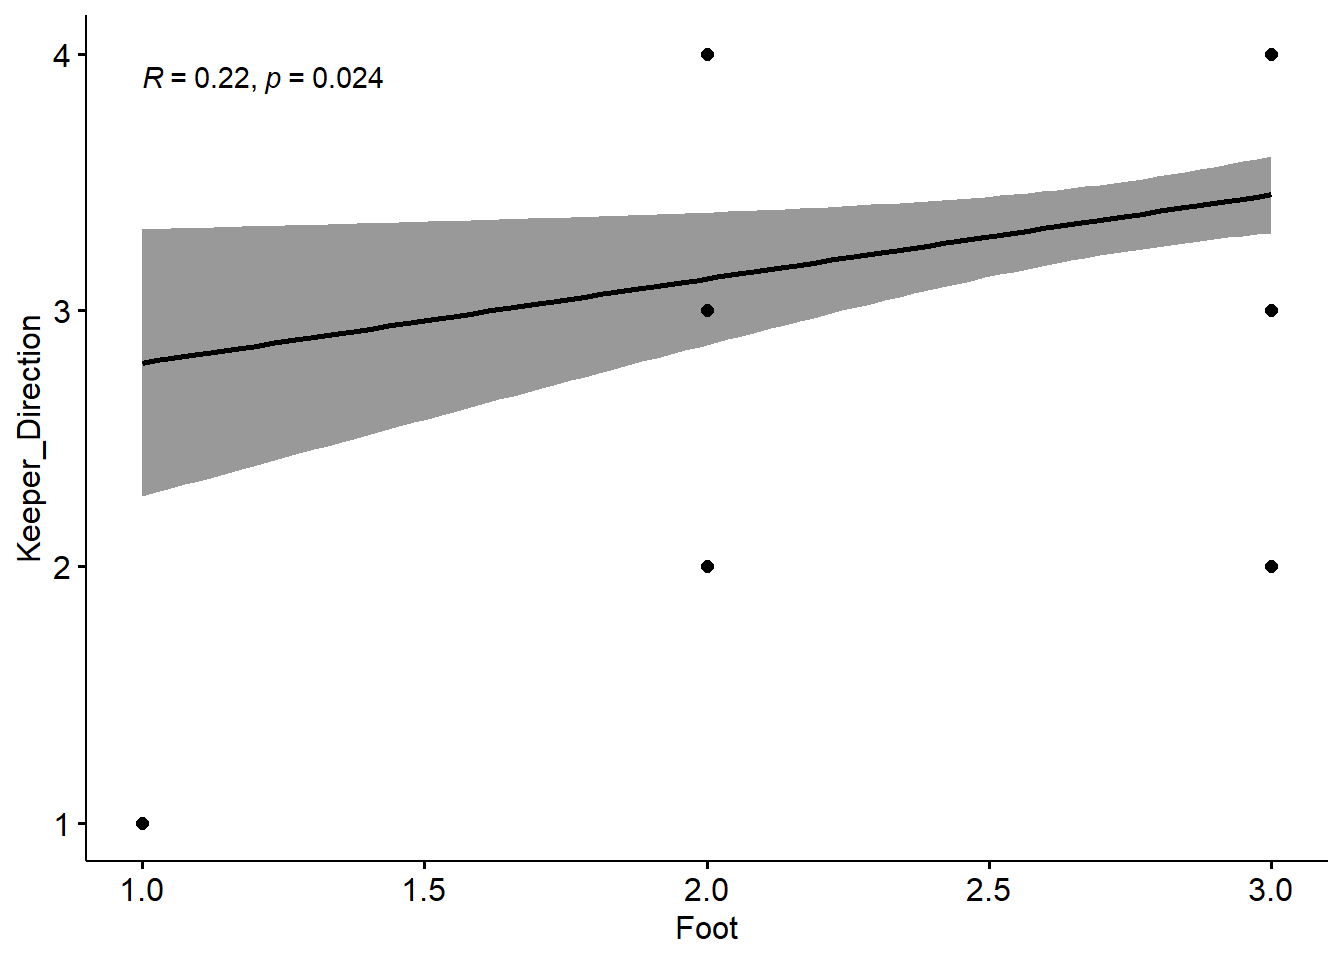
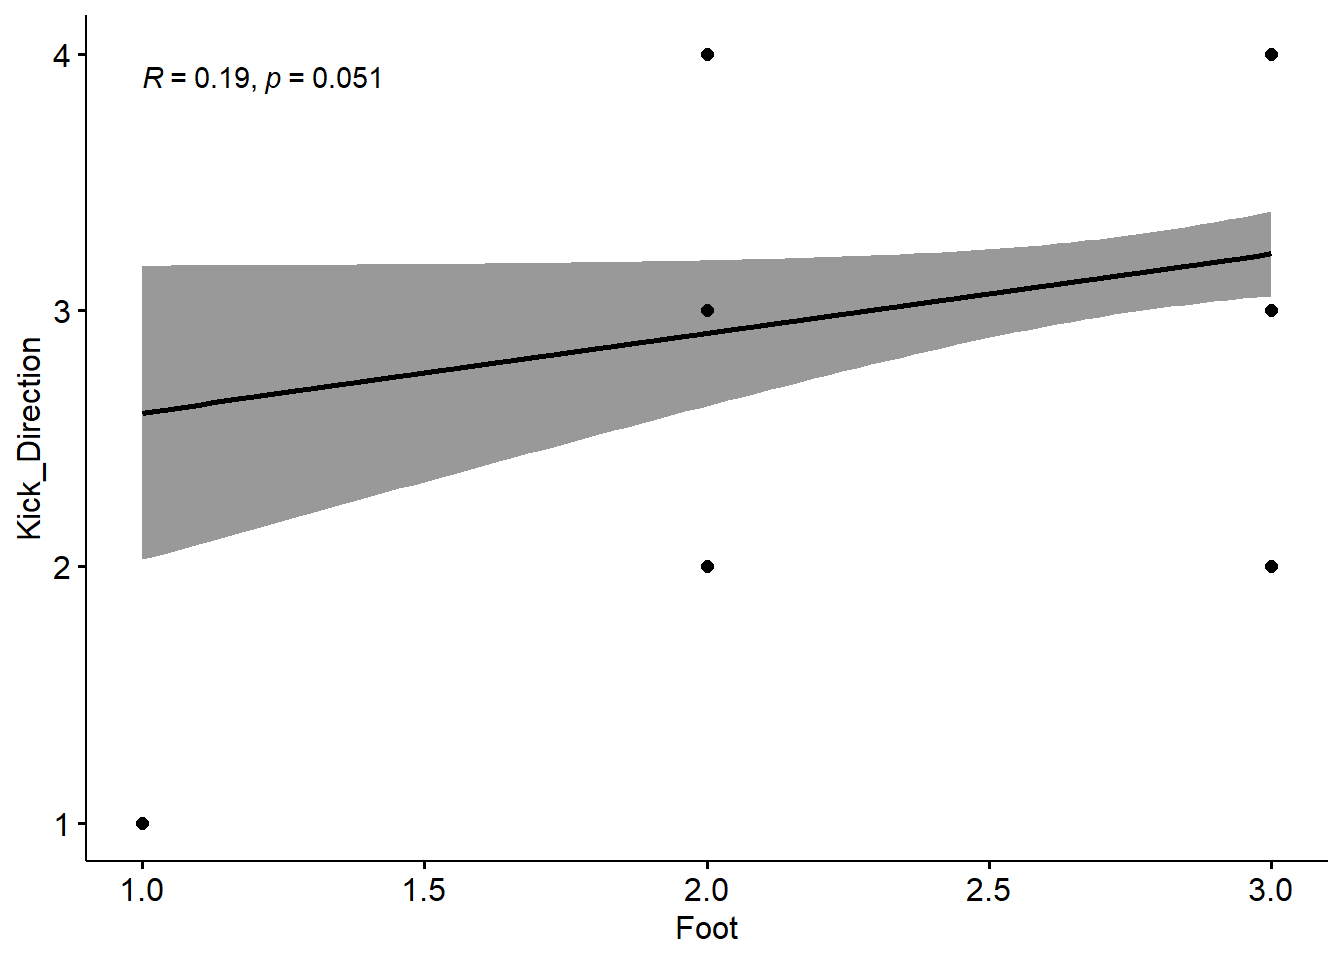
sa

diff --git a/_site/index.html b/_site/index.html
@@ -137,7 +137,7 @@ ul.task-list li input[type="checkbox"] {
 
 
 <p>Predicting if a player will score a penalty kick is a difficult question to answer. The following 106 observations describe all of the penalty kicks taken from the 2016/2017 premier league season. There are 13 variables describing every penalty kick, but we will use four variables (kick direction, keeper direction, the foot a player used to kick the ball, and whether the kick resulted in a goal) for this analysis. Although there isn’t much of a correlation between the foot a player uses to kick a penalty and whether they scored, a trend describes how most penalty kicks result in a goal.</p>
-<p>This first graph represents a</p>
+<p>In this first graph, we notice some missing data in the ‘Foot’ variable, leading to wider shading around the regression. The dot at 2.0 signifies left-footed kicks, while 3.0 indicates right-footed kicks. Moving to the y-axis, ‘Kick Result’ (0.00 for ‘Missed’ and 1.00 for ‘Scored’) reflects the outcome of the ‘Scored’ variable. Despite more right-footed penalty takers in the dataset, this did not significantly influence the outcome of penalty kicks. Overall, there is a positive correlation, suggesting that most kickers successfully score from penalties.</p>
 <div class="cell">
 <div class="cell-output-display">
 <div>
@@ -147,6 +147,7 @@ ul.task-list li input[type="checkbox"] {
 </div>
 </div>
 </div>
+<p>In this graph the dataset shows three missing values under number 1, indicating instances where information on the goalkeeper’s direction during penalty kicks is absent. Number 2 (‘C’) signifies instances where the goalkeeper moved towards the center, while 3 (‘L’) and 4 (‘R’) represent left and right directions respectively. The correlation between player behavior and goalkeeper direction is weak, at 0.15. Despite goalkeepers studying players’ penalty kick tendencies, players may adjust their strategy to outsmart goalkeepers. Overall, while kickers typically have an advantage knowing where to aim, it’s notable that this correlation isn’t the weakest in the dataset.</p>
 <div class="cell">
 <div class="cell-output-display">
 <div>
@@ -156,6 +157,7 @@ ul.task-list li input[type="checkbox"] {
 </div>
 </div>
 </div>
+<p>This chart indicates, there is a moderately weak correlation between the player’s foot and the kick direction. This suggests that there is little relevance between which foot the player uses and what direction the ball will travel.</p>
 <div class="cell">
 <div class="cell-output-display">
 <div>
@@ -165,20 +167,12 @@ ul.task-list li input[type="checkbox"] {
 </div>
 </div>
 </div>
+<p>Here is a graph that represents the date and whether the player scored. Here I tried to see if there is a correlation between temperature and whther a player scored.</p>
 <div class="cell">
 <div class="cell-output-display">
 <div>
 <figure class="figure">
 <p><img src="index_files/figure-html/unnamed-chunk-6-1.png" class="img-fluid figure-img" width="672"></p>
-</figure>
-</div>
-</div>
-</div>
-<div class="cell">
-<div class="cell-output-display">
-<div>
-<figure class="figure">
-<p><img src="index_files/figure-html/unnamed-chunk-7-1.png" class="img-fluid figure-img" width="672"></p>
 </figure>
 </div>
 </div>
